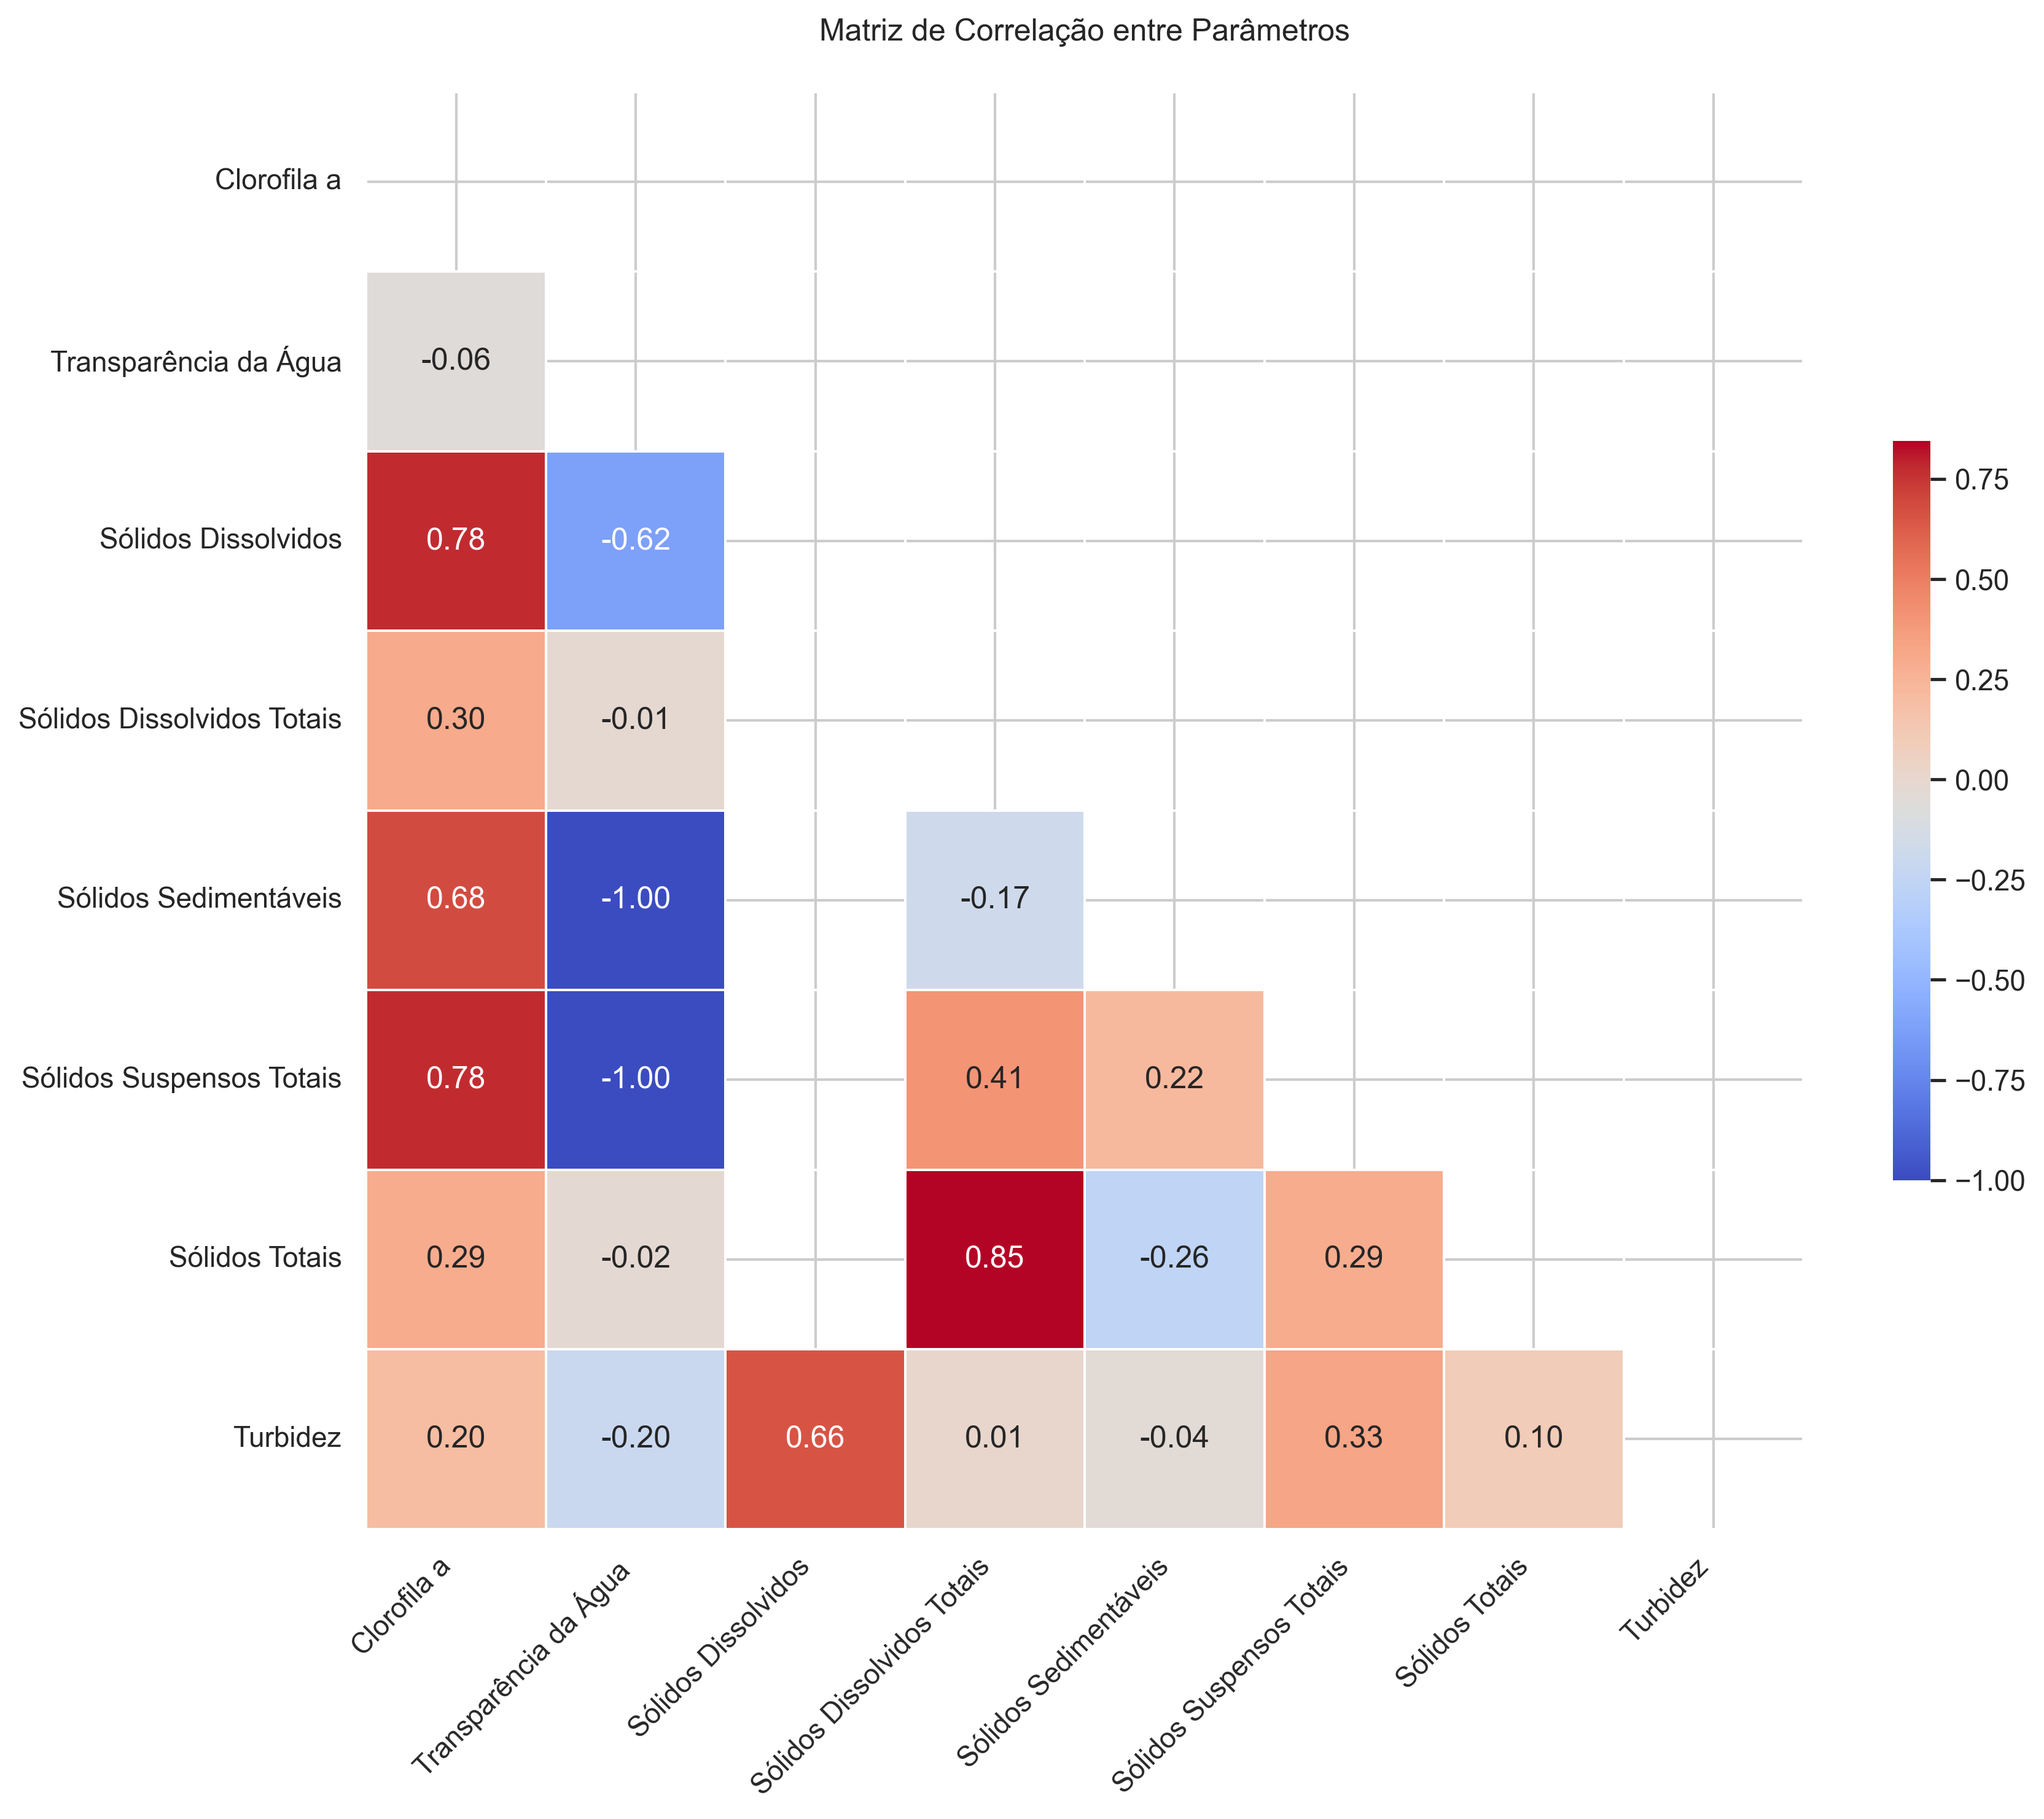
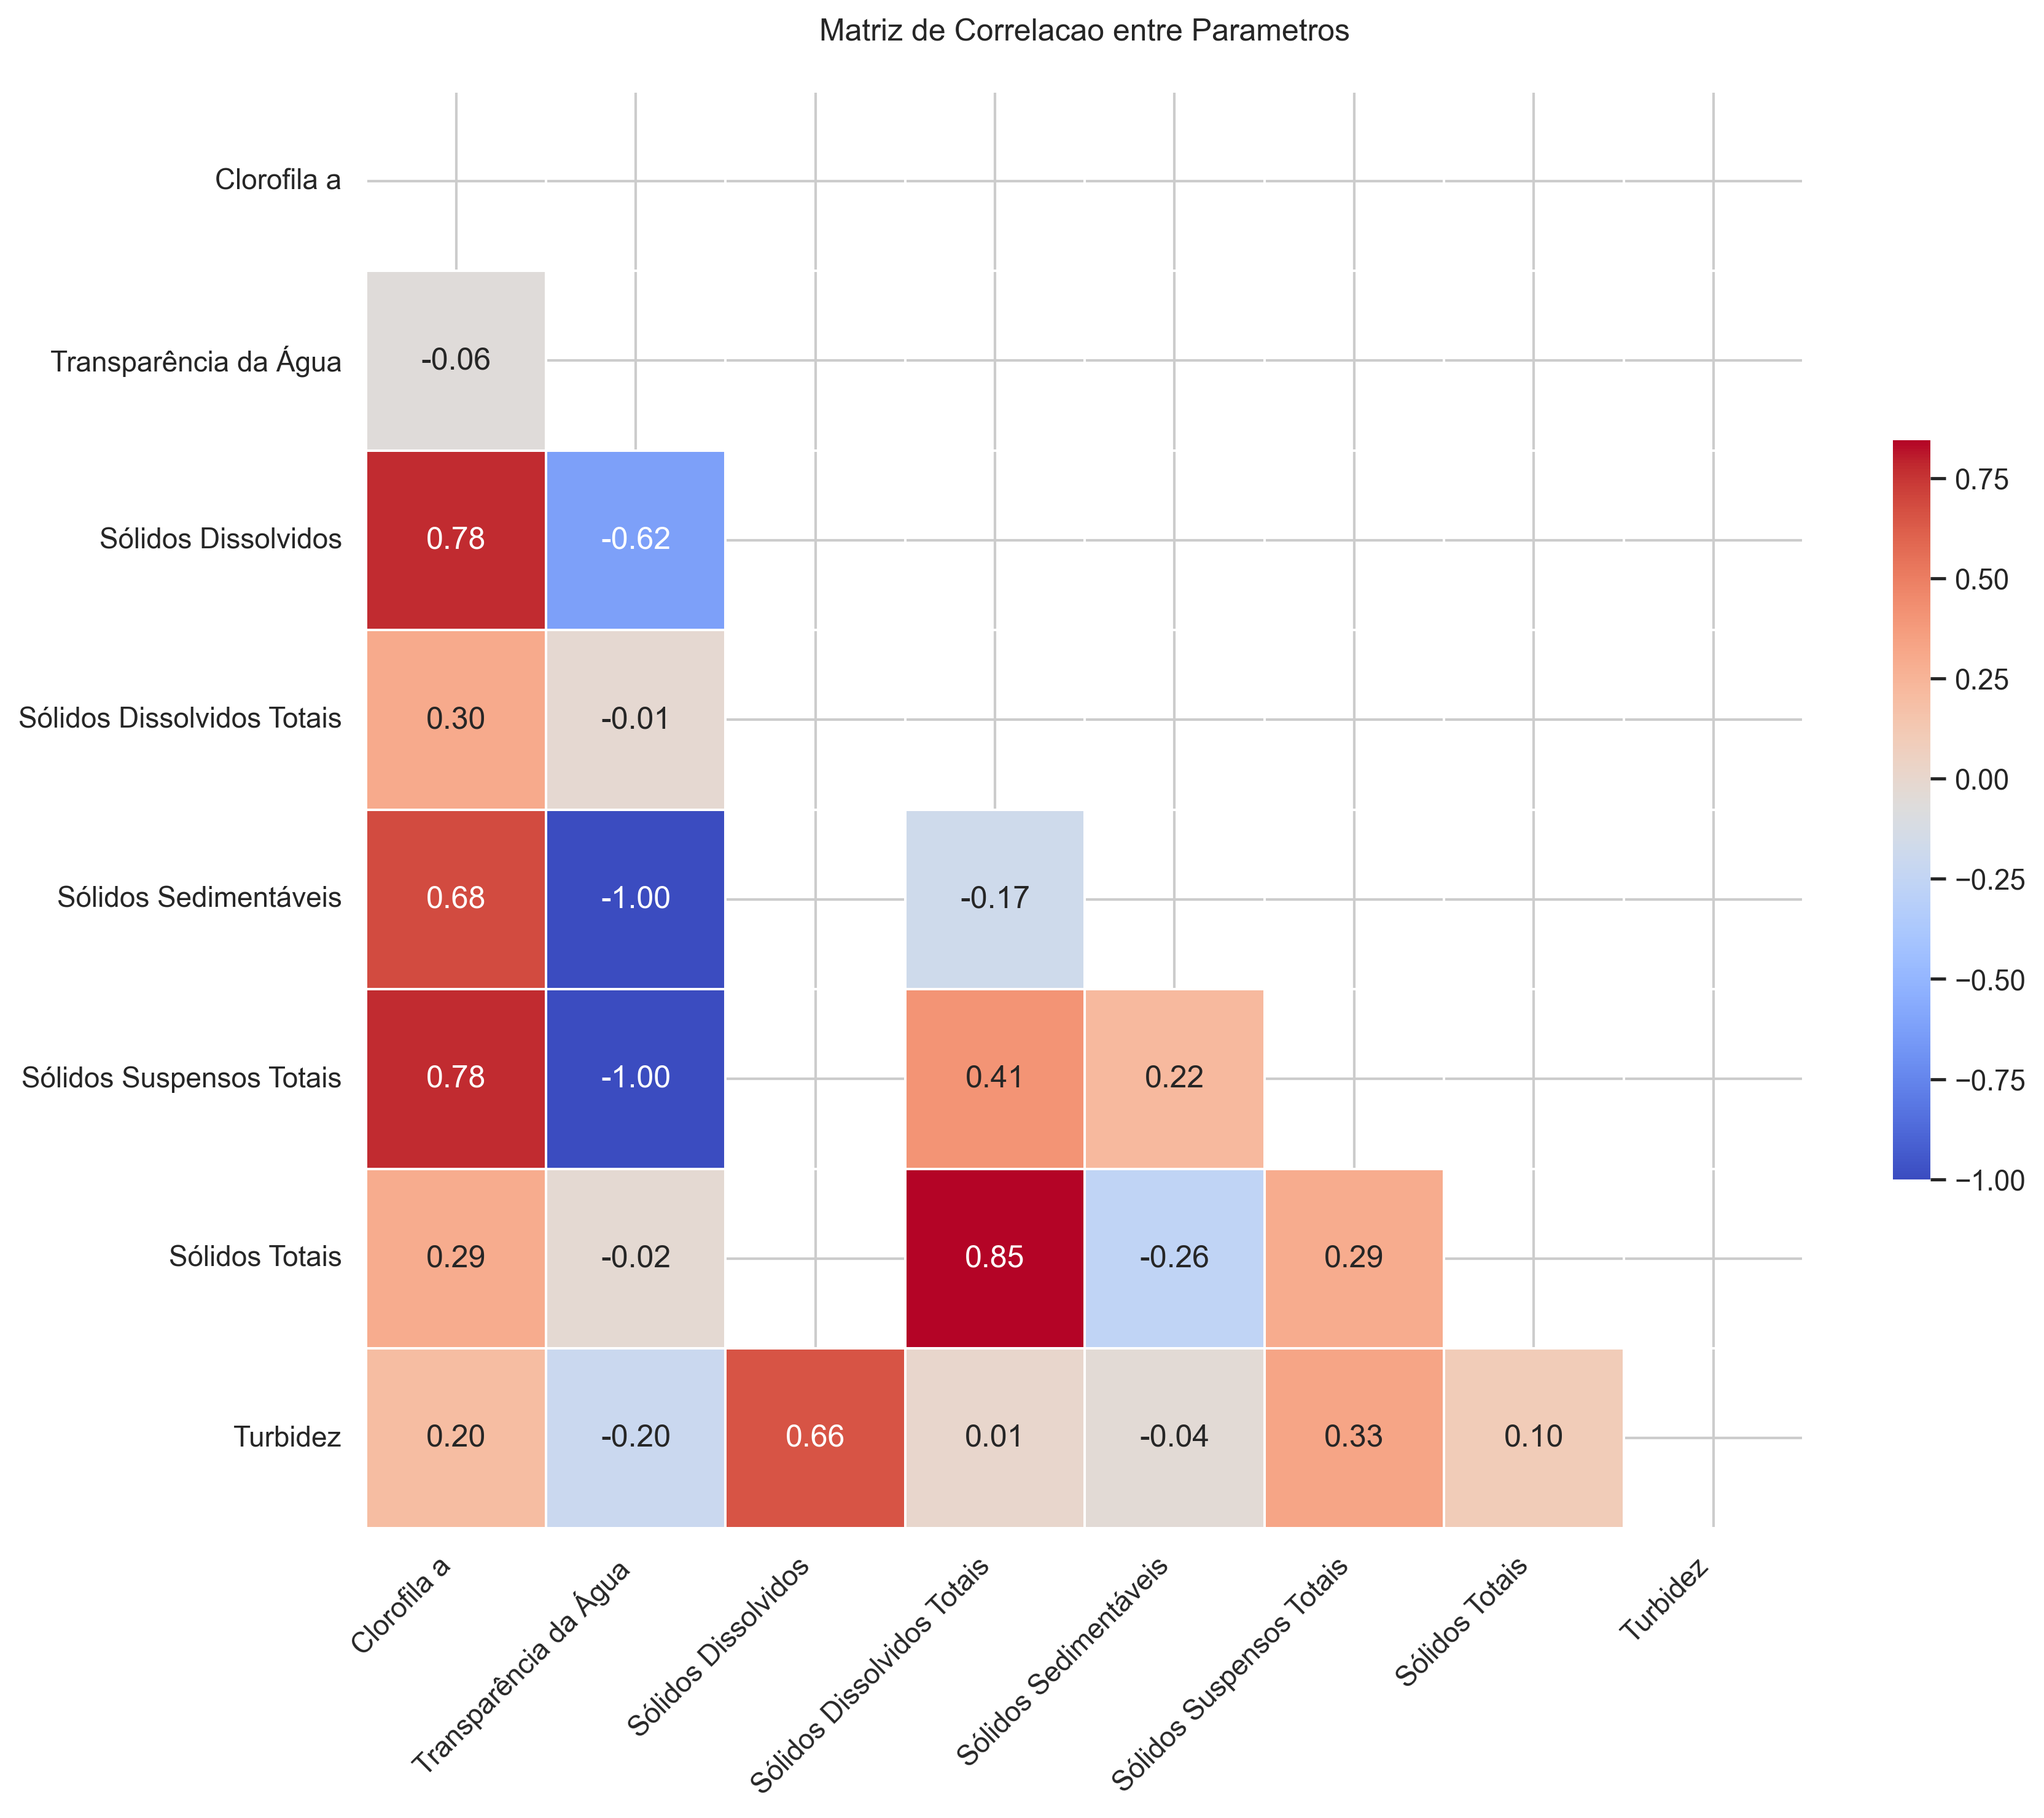
fixing special caracters bug not displaying figures on bitbucket

diff --git a/CacuReservoir/sitsu_data/utils/analyse_parameters.py b/CacuReservoir/sitsu_data/utils/analyse_parameters.py
@@ -2,69 +2,105 @@ import pandas as pd
 import matplotlib.pyplot as plt
 import seaborn as sns
 import os
+import numpy as np
+import unicodedata
 
-# Create a directory to store the analysis results
-output_dir = "../sitsu_data_analysis"
-os.makedirs(output_dir, exist_ok=True)
+def remove_accents(text):
+    """Remove acentos e caracteres especiais do texto."""
+    text = unicodedata.normalize('NFKD', text)
+    text = text.encode('ASCII', 'ignore').decode('ASCII')
+    return text
 
-# Read the dataset
-data = pd.read_csv("../finished_processed_data/Base_kinross_filtered_parameters_updated.csv")
+def sanitize_filename(name):
+    """Sanitiza o nome do arquivo removendo caracteres especiais e acentos."""
+    name = remove_accents(name)
+    name = name.replace(' ', '_').replace('(', '').replace(')', '').replace('/', '_')
+    return name.lower()  # Converter para minúsculas para maior consistência
 
-# Save the first few rows of the dataset to a file
-with open(os.path.join(output_dir, "dataset_head.txt"), "w") as file:
-    file.write("First few rows of the dataset:\n")
-    file.write(data.head().to_string(index=False))
+def analyze_dataset():
+    # Criar diretório para as figuras
+    figures_dir = "figures"
+    os.makedirs(figures_dir, exist_ok=True)
 
-# Get the column names
-columns = data.columns.tolist()
+    # Configuração dos gráficos
+    sns.set_theme(style="whitegrid")
+    plt.rcParams['figure.figsize'] = [12, 6]
 
-# Exclude non-parameter columns
-exclude_columns = ["PONTO", "DATA", "Latitude", "Longitude"]
-parameters = [col for col in columns if col not in exclude_columns]
+    # Ler o dataset
+    data = pd.read_csv("../finished_processed_data/Base_kinross_filtered_parameters_updated.csv")
 
-# Analyze each parameter
-for param in parameters:
-    # Create a directory for each parameter
-    param_dir = os.path.join(output_dir, param)
-    os.makedirs(param_dir, exist_ok=True)
-    
-    # Check for missing values and save to a file
-    missing_values = data[param].isnull().sum()
-    with open(os.path.join(param_dir, "missing_values.txt"), "w") as file:
-        file.write(f"Missing values: {missing_values}\n")
-    
-    # Calculate total average and save to a file
-    total_avg = data[param].mean()
-    with open(os.path.join(param_dir, "total_average.txt"), "w") as file:
-        file.write(f"Total average: {total_avg:.2f}\n")
-    
-    # Calculate average by sampling point and save to a file
-    avg_by_point = data.groupby("PONTO")[param].mean()
-    avg_by_point.to_csv(os.path.join(param_dir, "average_by_point.csv"), index=True)
-    
-    # Plot distribution and save to a file
-    plt.figure(figsize=(8, 6))
-    sns.histplot(data[param], kde=True)
-    plt.title(f"Distribution of {param}")
-    plt.xlabel(param)
-    plt.ylabel("Frequency")
-    plt.savefig(os.path.join(param_dir, "distribution.png"))
+    # Definir parâmetros para análise
+    exclude_columns = ["PONTO", "DATA", "Latitude", "Longitude"]
+    parameters = [col for col in data.columns if col not in exclude_columns]
+
+    # Gerar estatísticas descritivas
+    desc_stats = data[parameters].describe()
+    desc_stats.to_csv(os.path.join(figures_dir, 'descriptive_statistics.csv'))
+
+    # Analisar cada parâmetro
+    for param in parameters:
+        print(f"Processando: {param}")
+        safe_name = sanitize_filename(param)
+        param_display = remove_accents(param)  # Para títulos dos gráficos
+
+        # Distribuição
+        plt.figure()
+        sns.histplot(data[param], kde=True, bins=30)
+        plt.title(f"Distribuicao de {param_display}", pad=20, fontsize=12)
+        plt.xlabel(param_display, fontsize=10)
+        plt.ylabel("Frequencia", fontsize=10)
+        plt.savefig(os.path.join(figures_dir, f"dist_{safe_name}.png"), 
+                    bbox_inches='tight', dpi=300)
+        plt.close()
+
+        # Boxplot
+        plt.figure(figsize=(14, 6))
+        sns.boxplot(x="PONTO", y=param, data=data)
+        plt.title(f"Boxplot de {param_display} por Ponto de Amostragem", pad=20, fontsize=12)
+        plt.xlabel("Ponto de Amostragem", fontsize=10)
+        plt.ylabel(param_display, fontsize=10)
+        plt.xticks(rotation=45)
+        plt.savefig(os.path.join(figures_dir, f"box_{safe_name}.png"), 
+                    bbox_inches='tight', dpi=300)
+        plt.close()
+
+        # Salvar estatísticas por ponto de amostragem
+        point_stats = data.groupby("PONTO")[param].describe()
+        point_stats.to_csv(os.path.join(figures_dir, f"{safe_name}_by_point.csv"))
+
+    # Matriz de correlação
+    plt.figure(figsize=(12, 10))
+    corr_matrix = data[parameters].corr()
+    mask = np.triu(np.ones_like(corr_matrix, dtype=bool))
+    sns.heatmap(corr_matrix, 
+                mask=mask,
+                annot=True, 
+                cmap="coolwarm", 
+                fmt=".2f",
+                square=True,
+                linewidths=0.5,
+                cbar_kws={"shrink": .5})
+    plt.title("Matriz de Correlacao entre Parametros", pad=20, fontsize=12)
+    plt.xticks(rotation=45, ha='right')
+    plt.yticks(rotation=0)
+    plt.tight_layout()
+    plt.savefig(os.path.join(figures_dir, "correlation_matrix.png"), 
+                bbox_inches='tight', dpi=300)
     plt.close()
-    
-    # Plot boxplot by sampling point and save to a file
-    plt.figure(figsize=(12, 6))
-    sns.boxplot(x="PONTO", y=param, data=data)
-    plt.title(f"Boxplot of {param} by Sampling Point")
-    plt.xlabel("Sampling Point")
-    plt.ylabel(param)
-    plt.xticks(rotation=45)
-    plt.savefig(os.path.join(param_dir, "boxplot.png"))
-    plt.close()
 
-# Correlation matrix
-corr_matrix = data[parameters].corr()
-plt.figure(figsize=(10, 8))
-sns.heatmap(corr_matrix, annot=True, cmap="coolwarm")
-plt.title("Correlation Matrix")
-plt.savefig(os.path.join(output_dir, "correlation_matrix.png"))
-plt.close()
+    # Salvar matriz de correlação em CSV
+    corr_matrix.to_csv(os.path.join(figures_dir, 'correlation_matrix.csv'))
+
+    # Salvar informações básicas do dataset
+    dataset_info = {
+        'total_samples': len(data),
+        'total_columns': len(data.columns),
+        'date_range': [data['DATA'].min(), data['DATA'].max()],
+        'sampling_points': len(data['PONTO'].unique()),
+        'parameters': len(parameters)
+    }
+    
+    pd.DataFrame([dataset_info]).to_csv(os.path.join(figures_dir, 'dataset_info.csv'))
+
+if __name__ == "__main__":
+    analyze_dataset()

diff --git a/CacuReservoir/sitsu_data/utils/figures/getname.py b/CacuReservoir/sitsu_data/utils/figures/getname.py
@@ -1,0 +1,10 @@
+import os
+
+def list_files_in_root():
+    root_folder = os.path.dirname(os.path.abspath(__file__))
+    for filename in os.listdir(root_folder):
+        if os.path.isfile(os.path.join(root_folder, filename)):
+            print(filename)
+
+if __name__ == "__main__":
+    list_files_in_root()
